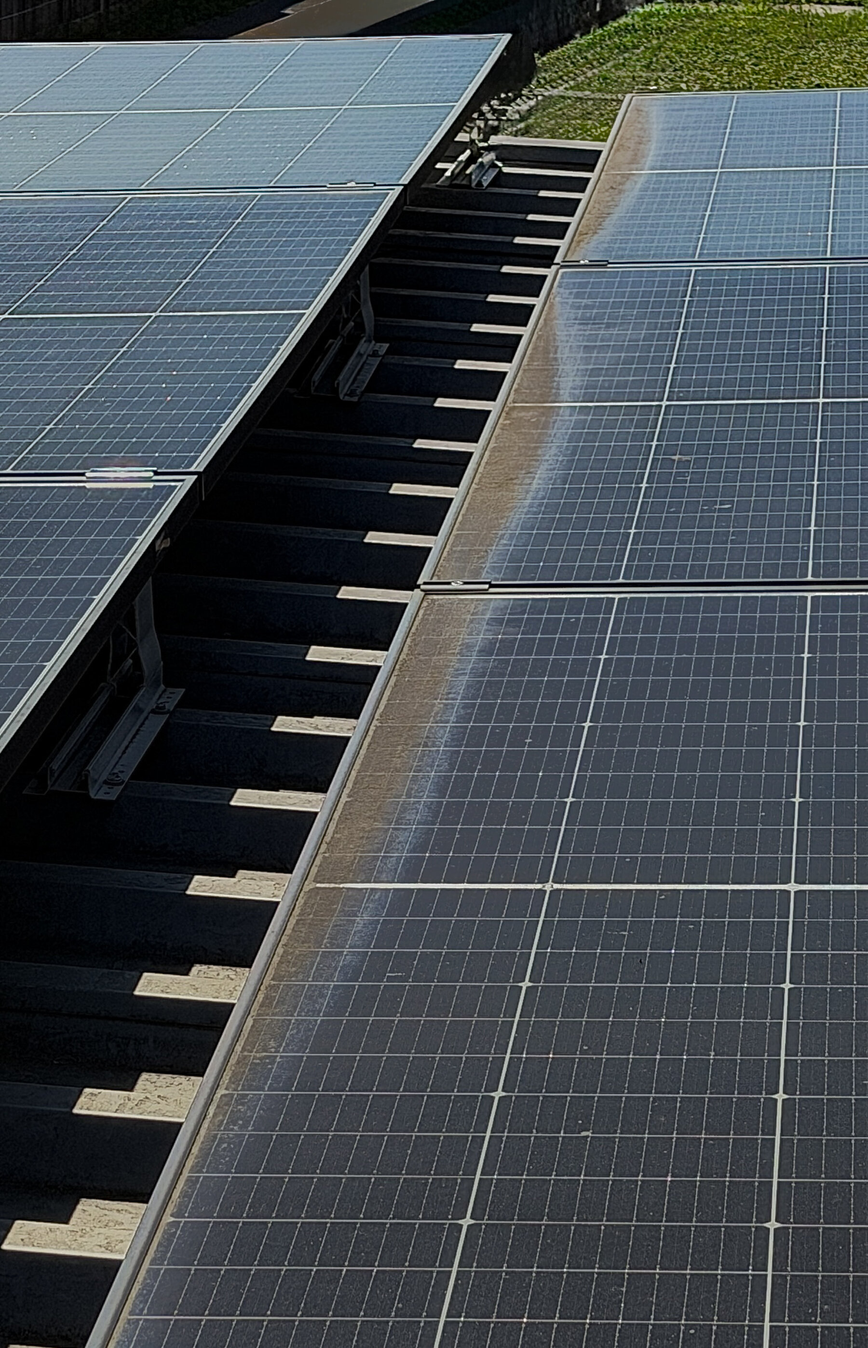
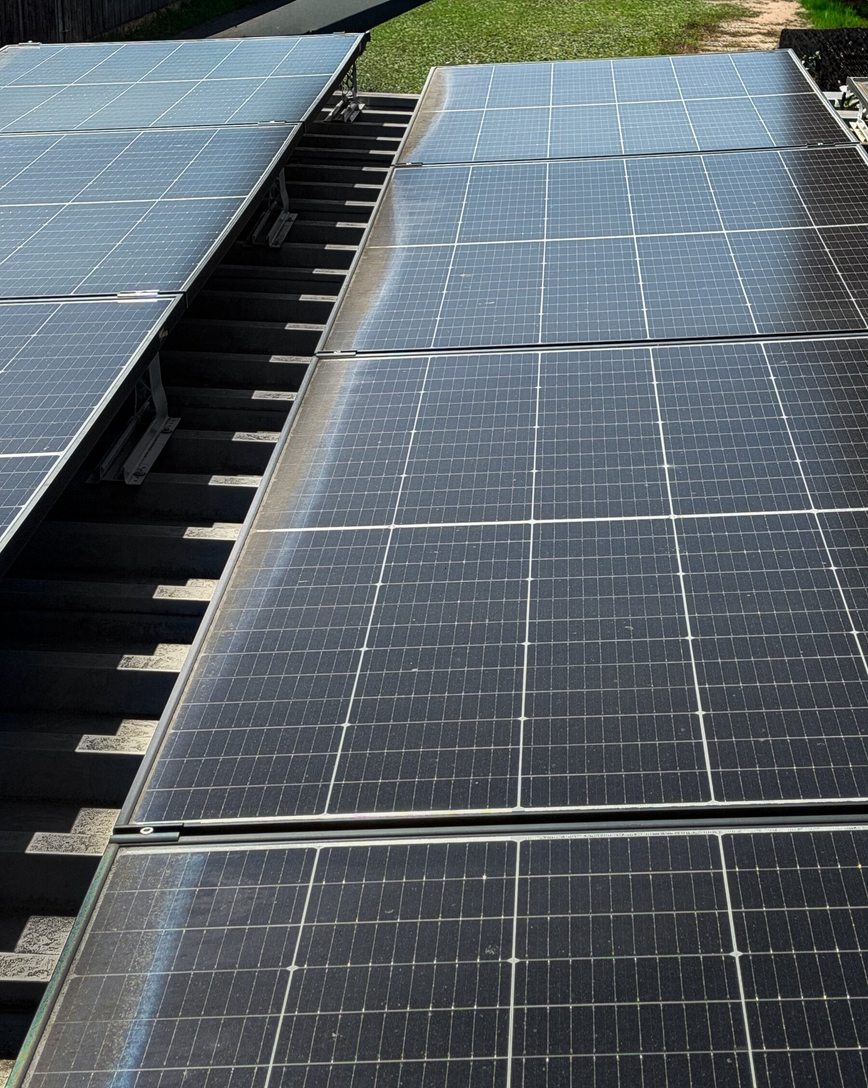
Staub-Foto für Lichtenfels-Seite gegen neues Foto austauschen
Claude-Session: https://claude.ai/code/session_01EYqoVsTLoWpRzmf7nQhqMt

diff --git a/src/pages/leistungen/solarreinigung-lichtenfels.html b/src/pages/leistungen/solarreinigung-lichtenfels.html
@@ -67,7 +67,7 @@ pagecss: pages.css
       </div>
       <div class="detail-block reverse" style="margin-top:var(--space-xl);">
         <div class="detail-media reveal-scale">
-          <div class="img-placeholder" style="aspect-ratio:1800/2796;position:relative;top:0;"><img loading="lazy" decoding="async" src="{{PREFIX}}assets/img/solarreinigung-lichtenfels-staub-verschmutzung.webp" alt="Solarmodul mit deutlich sichtbarem Staubstreifen am Rand" style="position:absolute;inset:0;width:100%;height:100%;object-fit:cover;" /></div>
+          <div class="img-placeholder" style="aspect-ratio:1800/2256;position:relative;top:0;"><img loading="lazy" decoding="async" src="{{PREFIX}}assets/img/solarreinigung-lichtenfels-staub-verschmutzung.webp" alt="Solarmodul mit deutlich sichtbarem Staubstreifen am Rand" style="position:absolute;inset:0;width:100%;height:100%;object-fit:cover;" /></div>
           <p class="ba-caption">Hier zeichnet sich der Staub als deutliche Linie entlang des Modulrands ab – genau dort, wo sich Verschmutzung zuerst festsetzt.</p>
         </div>
         <div class="detail-text reveal">

diff --git a/dist/leistungen/solarreinigung-lichtenfels.html b/dist/leistungen/solarreinigung-lichtenfels.html
@@ -281,7 +281,7 @@
       </div>
       <div class="detail-block reverse" style="margin-top:var(--space-xl);">
         <div class="detail-media reveal-scale">
-          <div class="img-placeholder" style="aspect-ratio:1800/2796;position:relative;top:0;"><img loading="lazy" decoding="async" src="../assets/img/solarreinigung-lichtenfels-staub-verschmutzung.webp" alt="Solarmodul mit deutlich sichtbarem Staubstreifen am Rand" style="position:absolute;inset:0;width:100%;height:100%;object-fit:cover;" /></div>
+          <div class="img-placeholder" style="aspect-ratio:1800/2256;position:relative;top:0;"><img loading="lazy" decoding="async" src="../assets/img/solarreinigung-lichtenfels-staub-verschmutzung.webp" alt="Solarmodul mit deutlich sichtbarem Staubstreifen am Rand" style="position:absolute;inset:0;width:100%;height:100%;object-fit:cover;" /></div>
           <p class="ba-caption">Hier zeichnet sich der Staub als deutliche Linie entlang des Modulrands ab – genau dort, wo sich Verschmutzung zuerst festsetzt.</p>
         </div>
         <div class="detail-text reveal">
